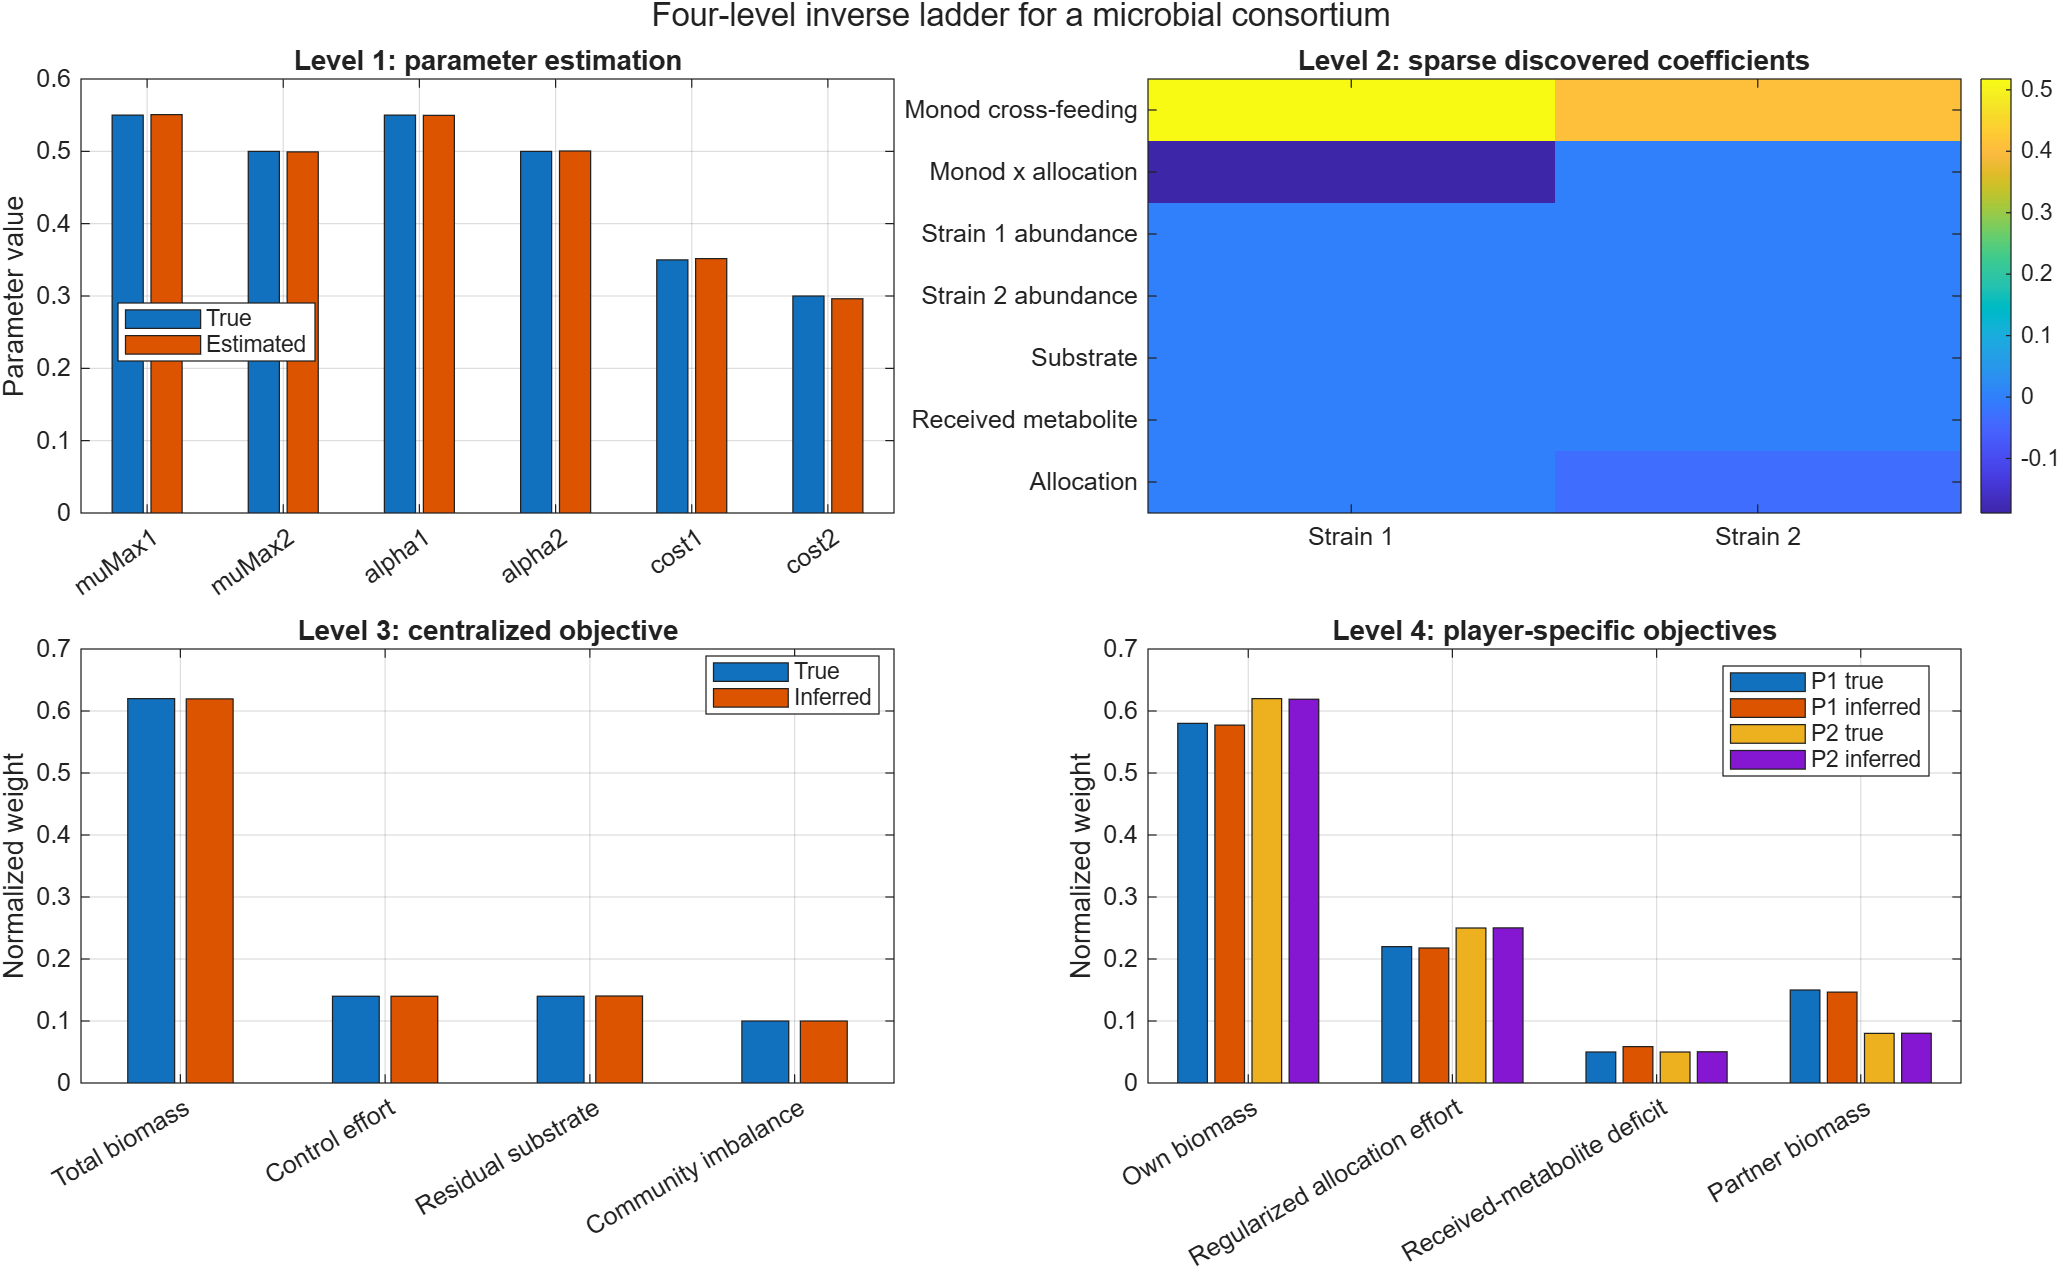
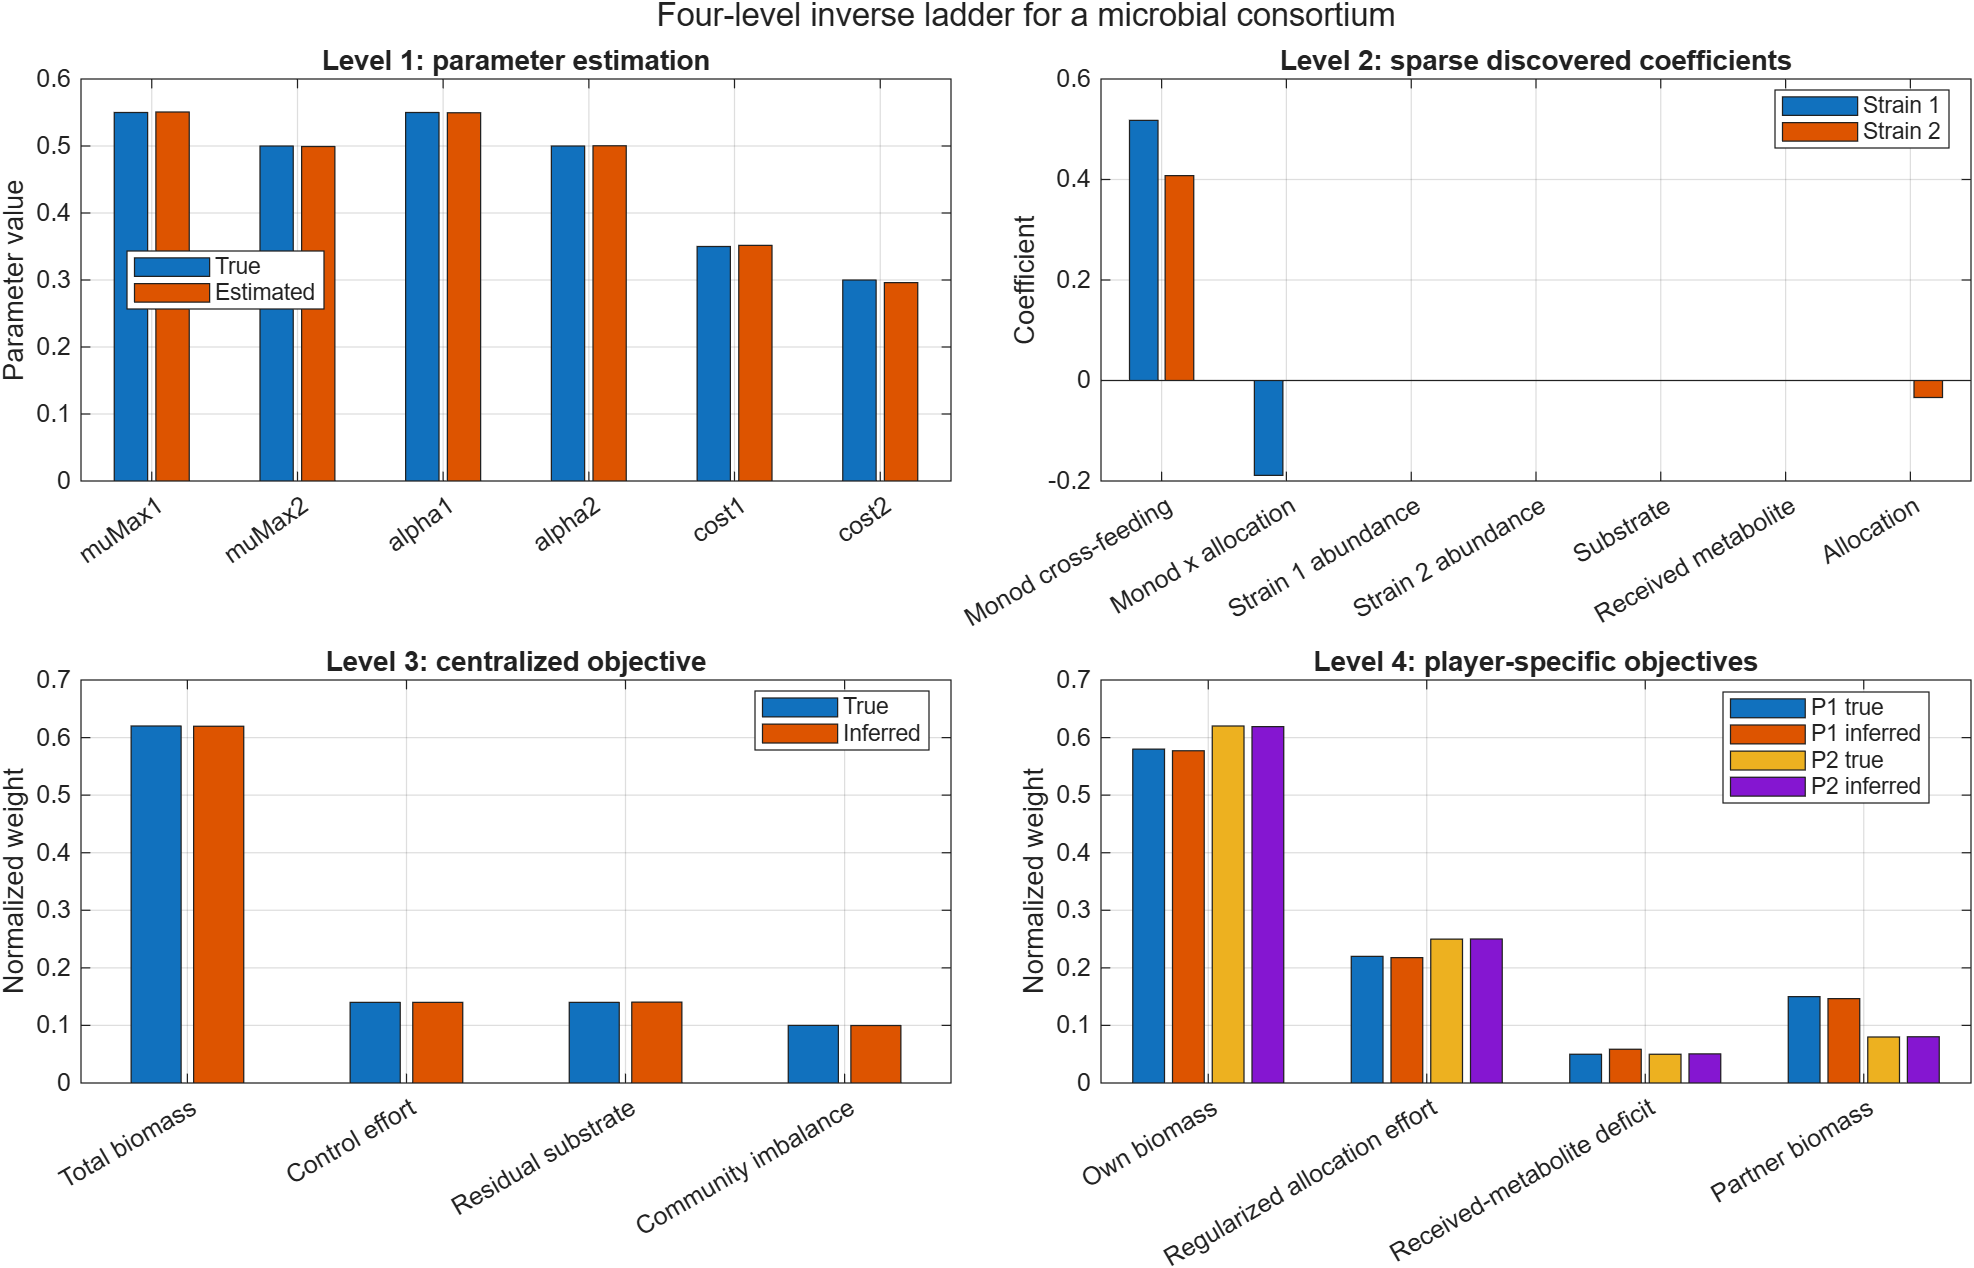
Show Level 2 coefficients as a grouped bar plot in the summary figure
Replace the Level 2 heat map with a grouped bar plot (library terms x strain),
matching the bar style of the other three panels. Bars show coefficient sign and
magnitude directly and make the sparse support obvious, unlike the color-coded
heat map. Regenerate inverse_ladder_summary.png from the saved results.

diff --git a/plotInverseLadderResults.m b/plotInverseLadderResults.m
@@ -16,13 +16,14 @@ legend("True", "Estimated", "Location", "best");
 grid on;
 
 nexttile;
-imagesc(results.level2.coefficients);
-colorbar;
-yticks(1:numel(results.level2.libraryNames));
-yticklabels(results.level2.libraryNames);
-xticks(1:2);
-xticklabels(["Strain 1", "Strain 2"]);
+bar(results.level2.coefficients);
+xticks(1:numel(results.level2.libraryNames));
+xticklabels(results.level2.libraryNames);
+xtickangle(30);
+ylabel("Coefficient");
 title("Level 2: sparse discovered coefficients");
+legend("Strain 1", "Strain 2", "Location", "best");
+grid on;
 
 nexttile;
 bar([results.level3.trueWeights, results.level3.inferredWeights]);
